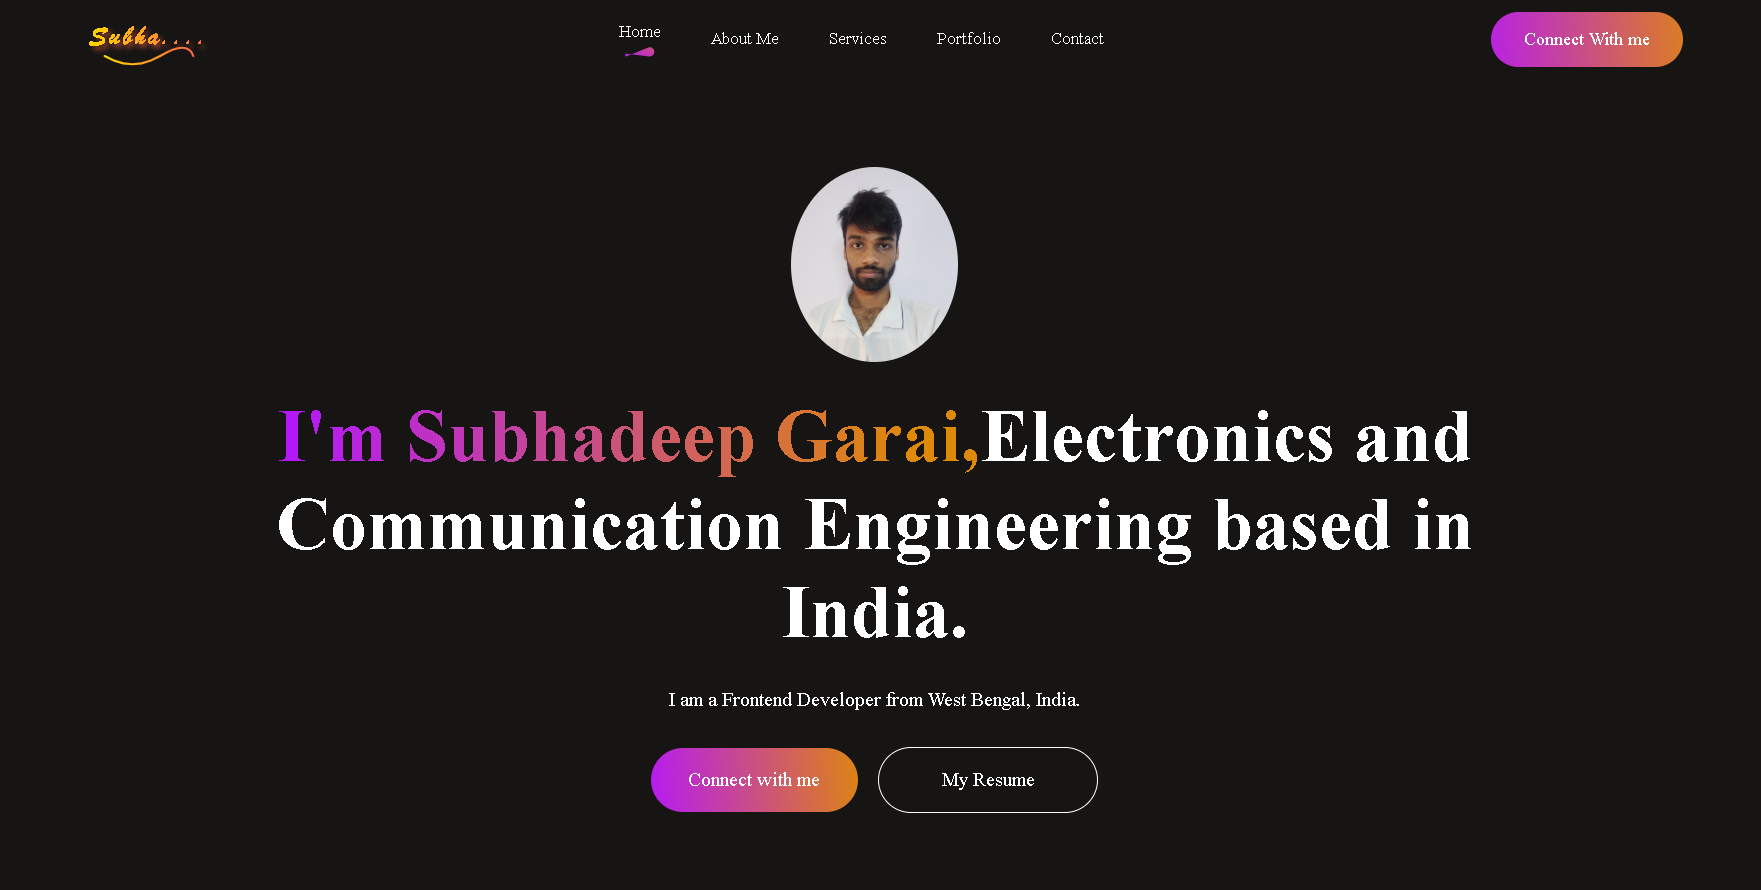
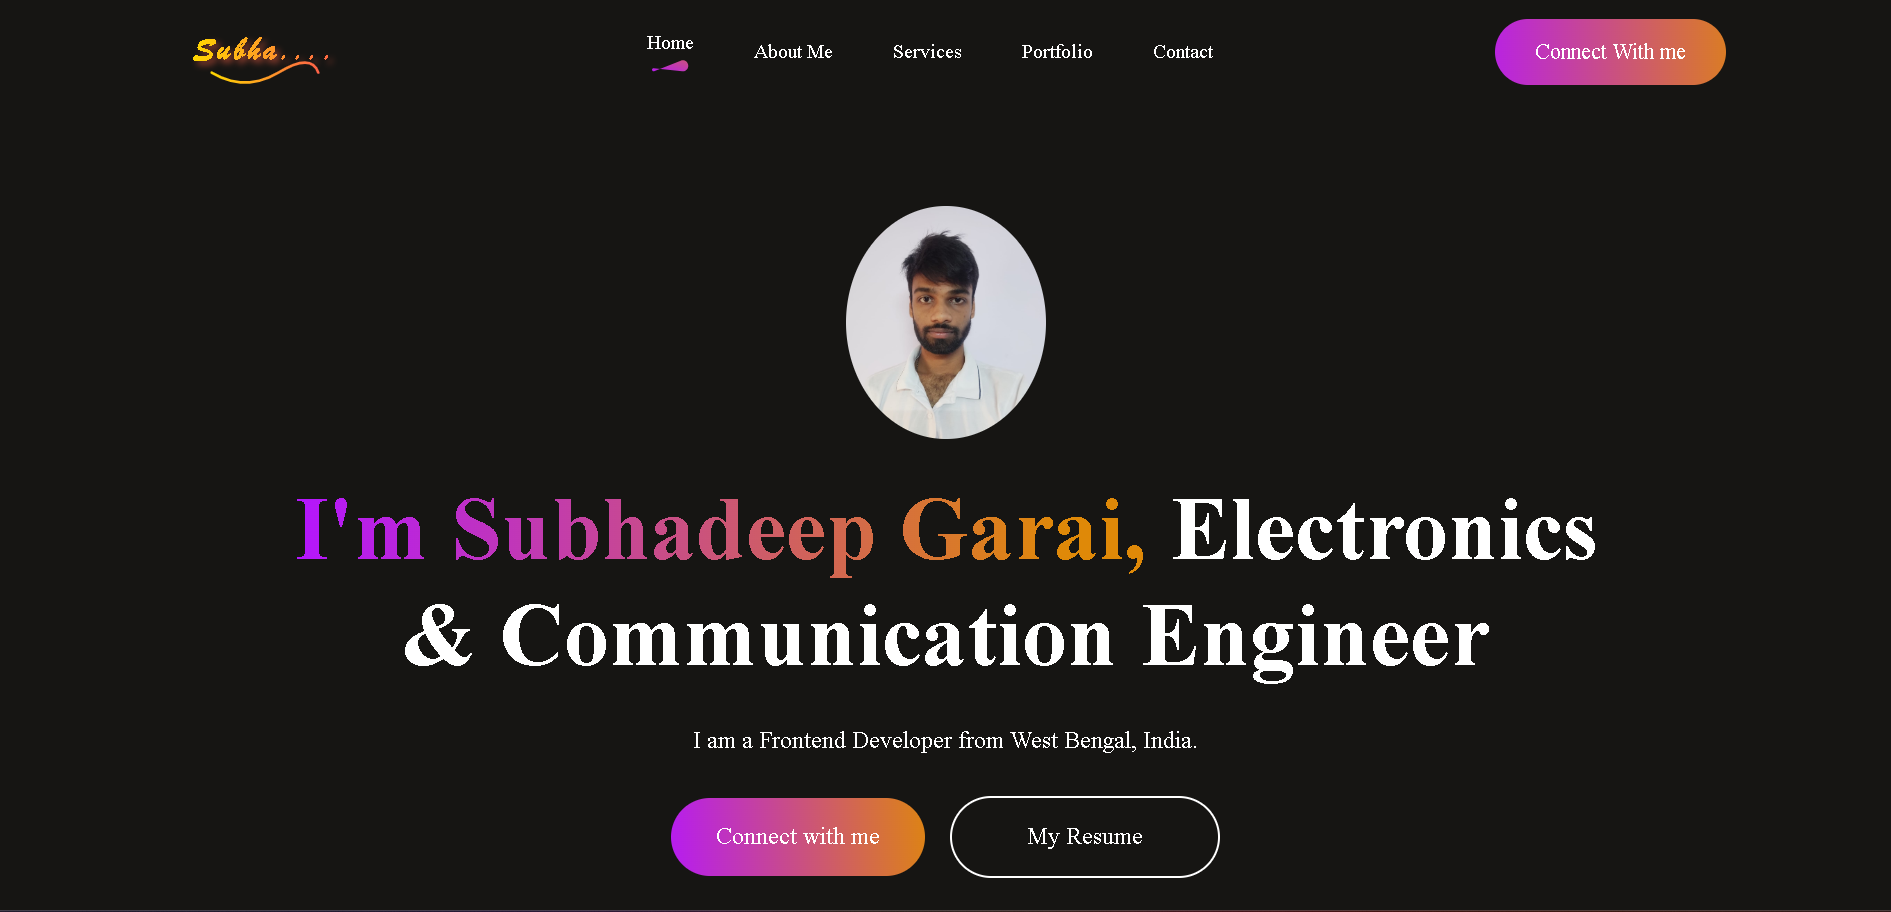
edit hero

diff --git a/src/Componenrs/Hero/Hero.jsx b/src/Componenrs/Hero/Hero.jsx
@@ -8,7 +8,7 @@ const Hero = () => {
   return (
     <div id='home' className='hero'>
       <img src={profile_img} alt=" "/>
-      <h1><span>I'm Subhadeep Garai,</span>Electronics and Communication Engineering based in India.</h1>
+      <h1><span>I'm Subhadeep Garai,</span> Electronics & Communication Engineer</h1>
       <p>I am a Frontend Developer from West Bengal, India.</p>
       <div className="hero-action">
         <div className="hero-connect"><AnchorLink className='anchor-link' offset={50} href='#contact'>Connect with me</AnchorLink></div>
